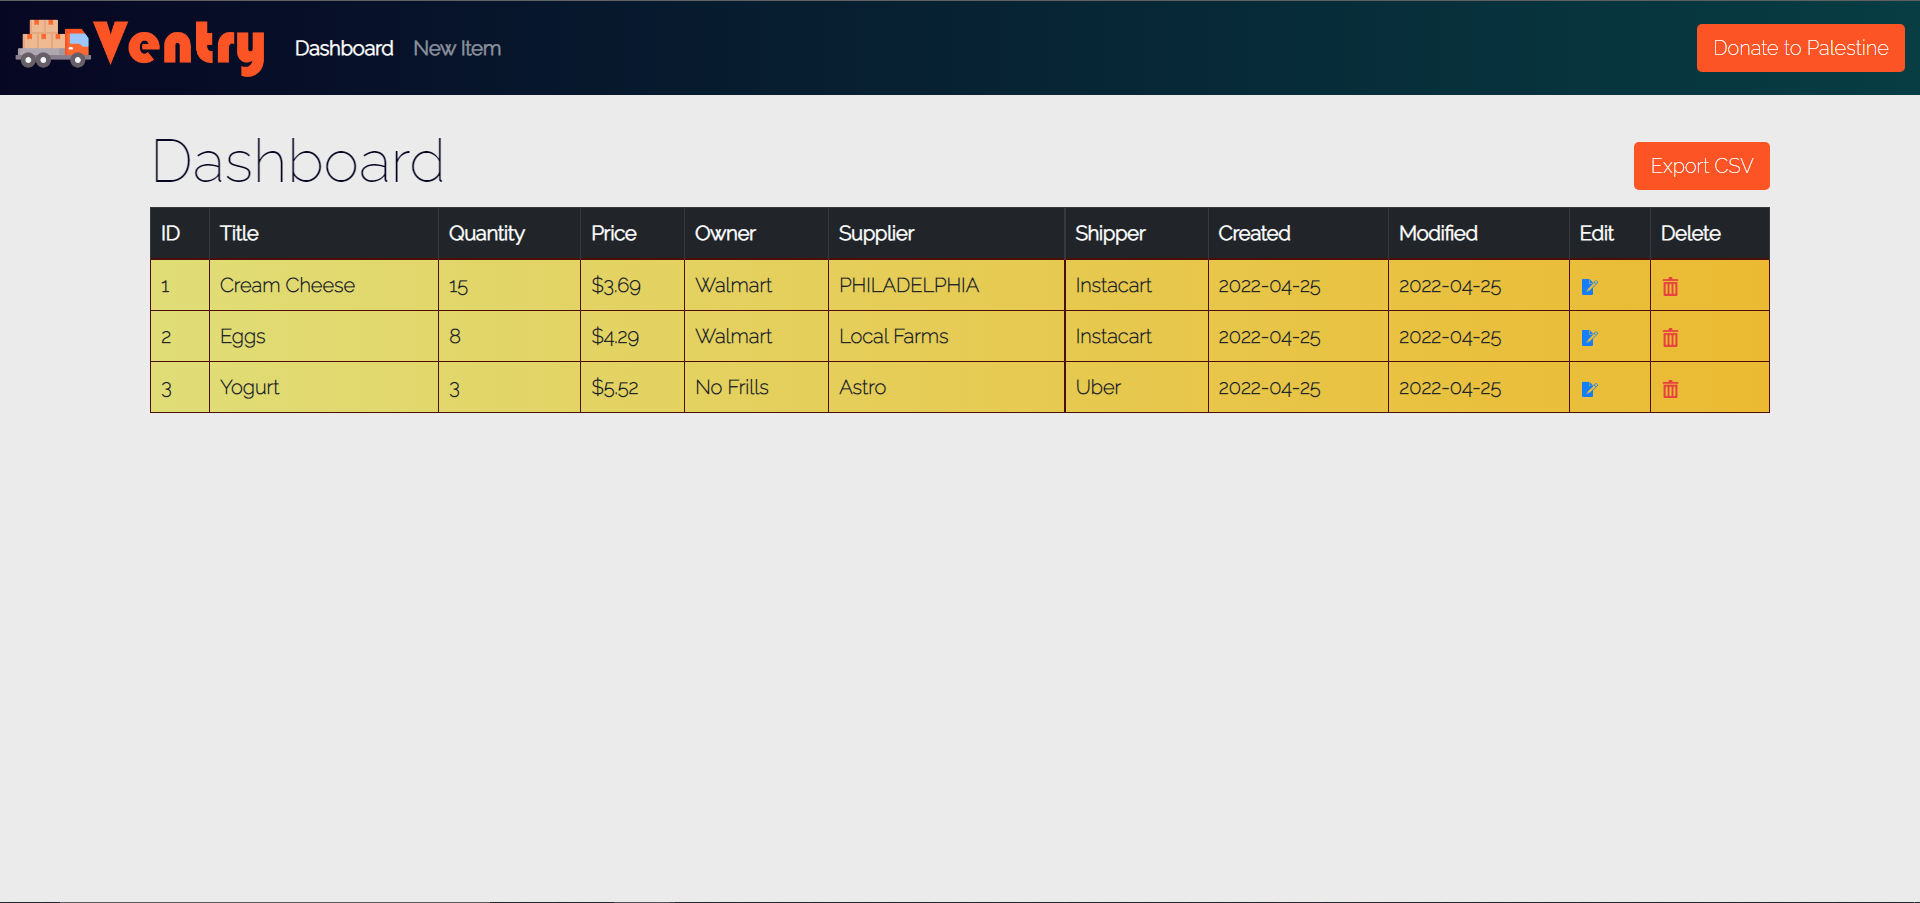
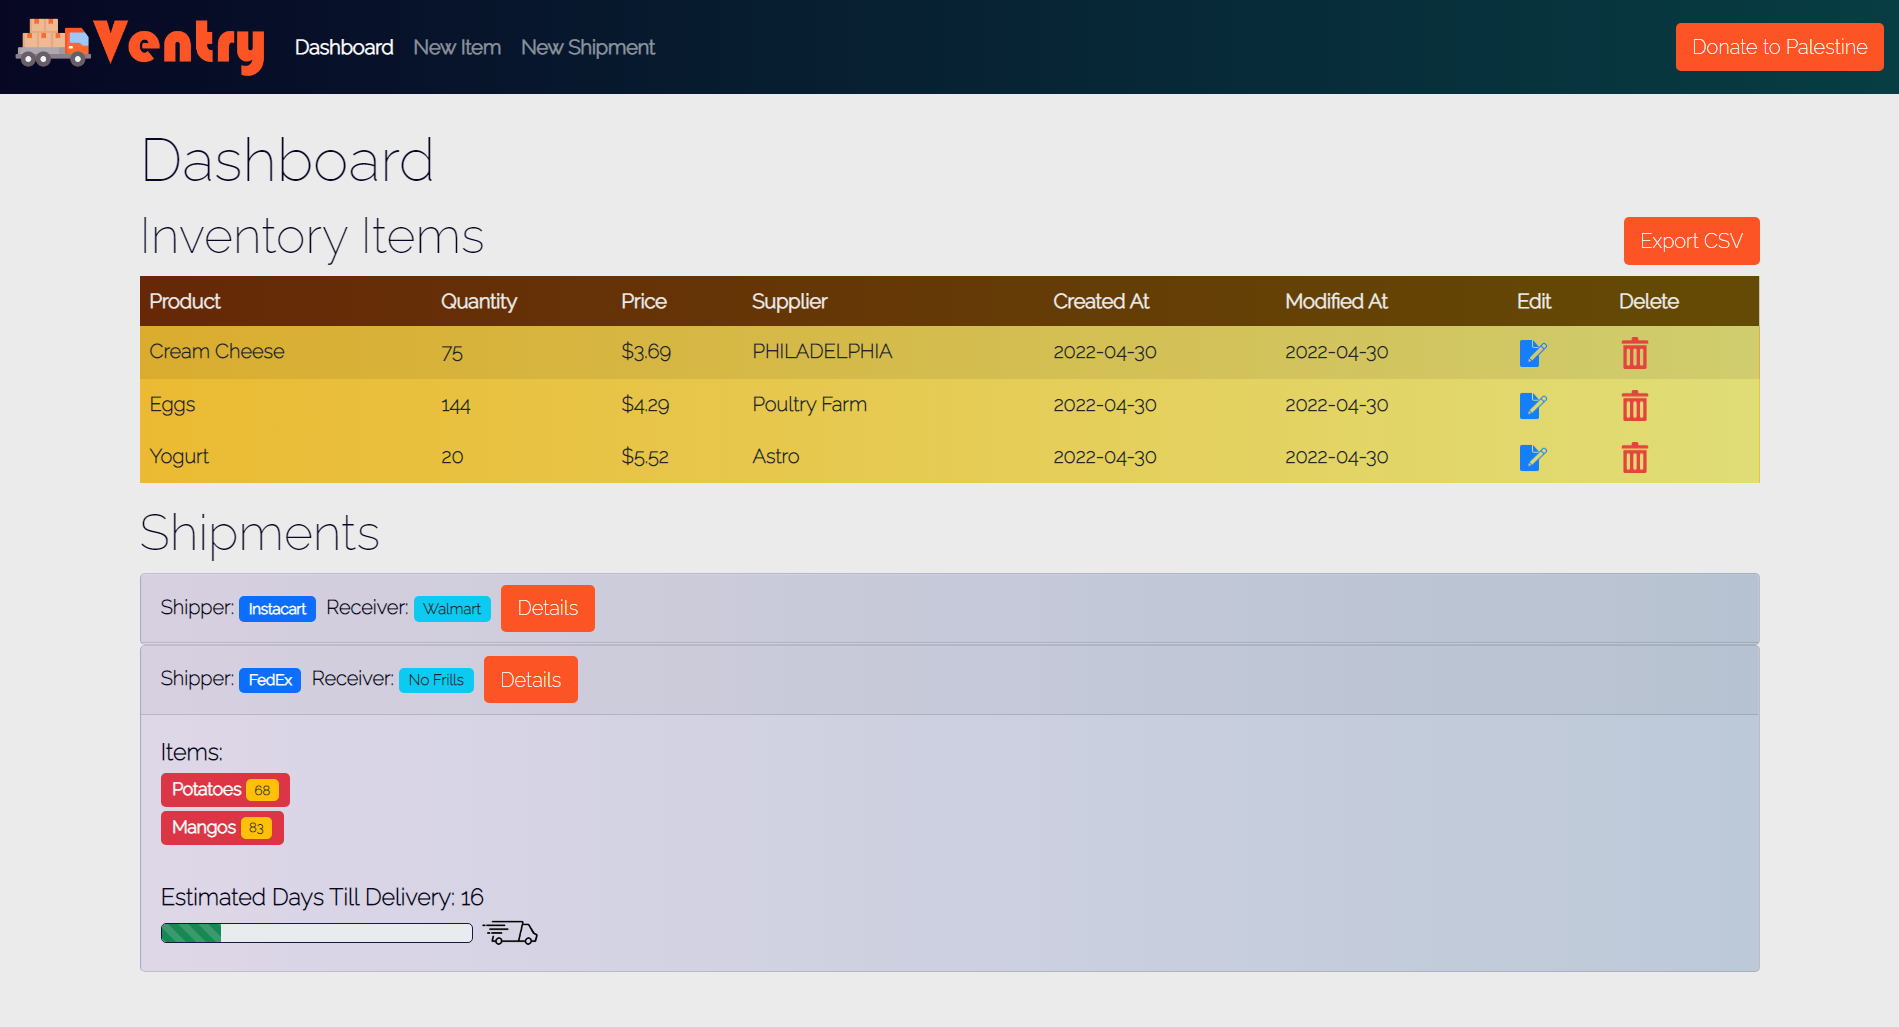
update screenshots & README

diff --git a/README.md b/README.md
@@ -8,21 +8,25 @@ Ventry is an inventory tracking [CRUD](https://en.wikipedia.org/wiki/Create,_rea
 
 ## Dashboard
 
-The dashboard page shows all items in the current inventory.
+The dashboard page shows all items in the current inventory as well as all currently scheduled shipments.
 
 ![Dashboard Screenshot](img/dashboard_screenshot.png)
 
-## Create New Items
+## Create New Item
 
 New items can be created by navigating to the **New Item** link on the navbar and filling out the form with the item details.
 
-<img alt="New Item Screenshot" src="img/new_screenshot.png" height="500" />
+<img alt="New Item Screenshot" src="img/new_item_screenshot.png" width="500" />
 
-## Update Existing Items
+## Update Existing Item
 
 Existing items can be updated by clicking the edit icon on the right hand side of the corresponding item on the dashboard and filling out the pre-populated form with the appropriate changes.
 
-<img alt="Edit Item Screenshot" src="img/edit_screenshot.png" height="500" />
+<img alt="Edit Item Screenshot" src="img/edit_item_screenshot.png" height="500" />
+
+## Create New Shipment
+
+New shipments can be created by navigating to the **New Shipment** link on the navbar and filling out the form with the shipping details, including which items to ship.
 
 ## Exporting to CSV
 
